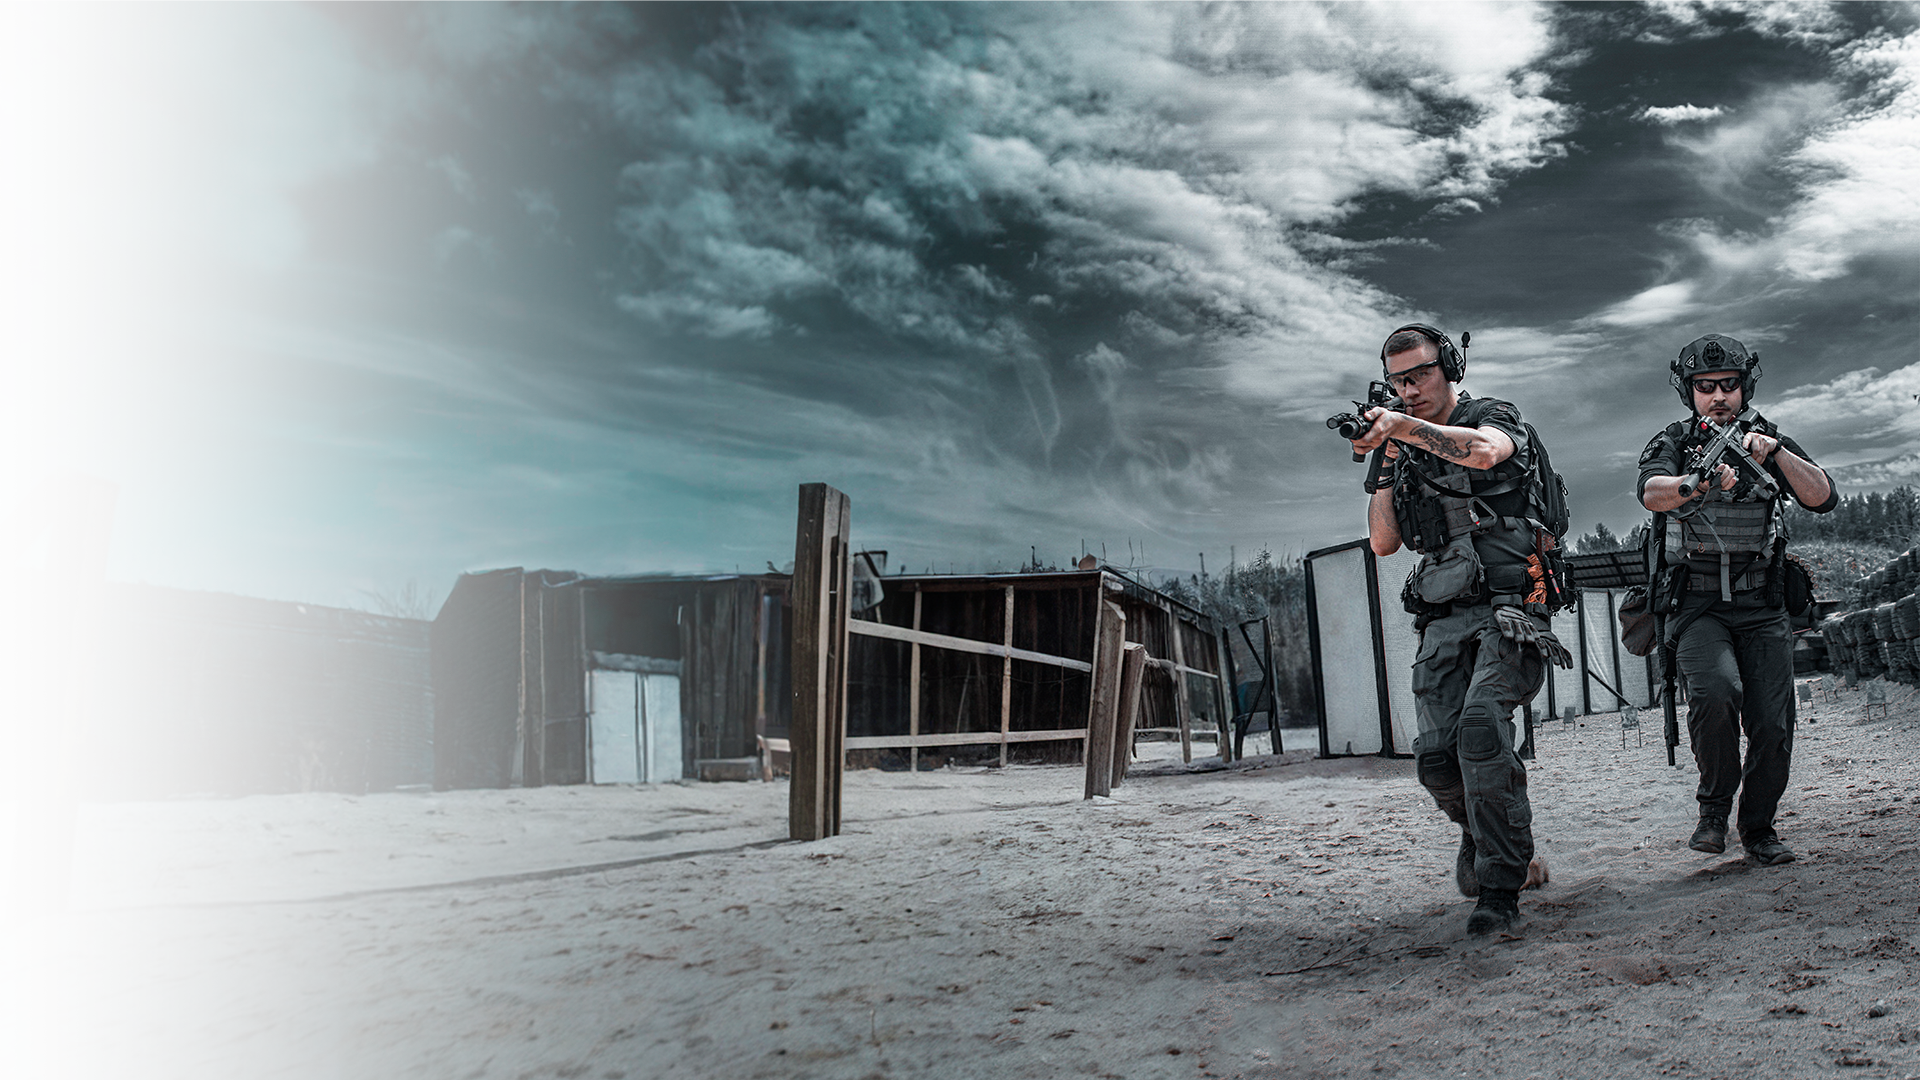
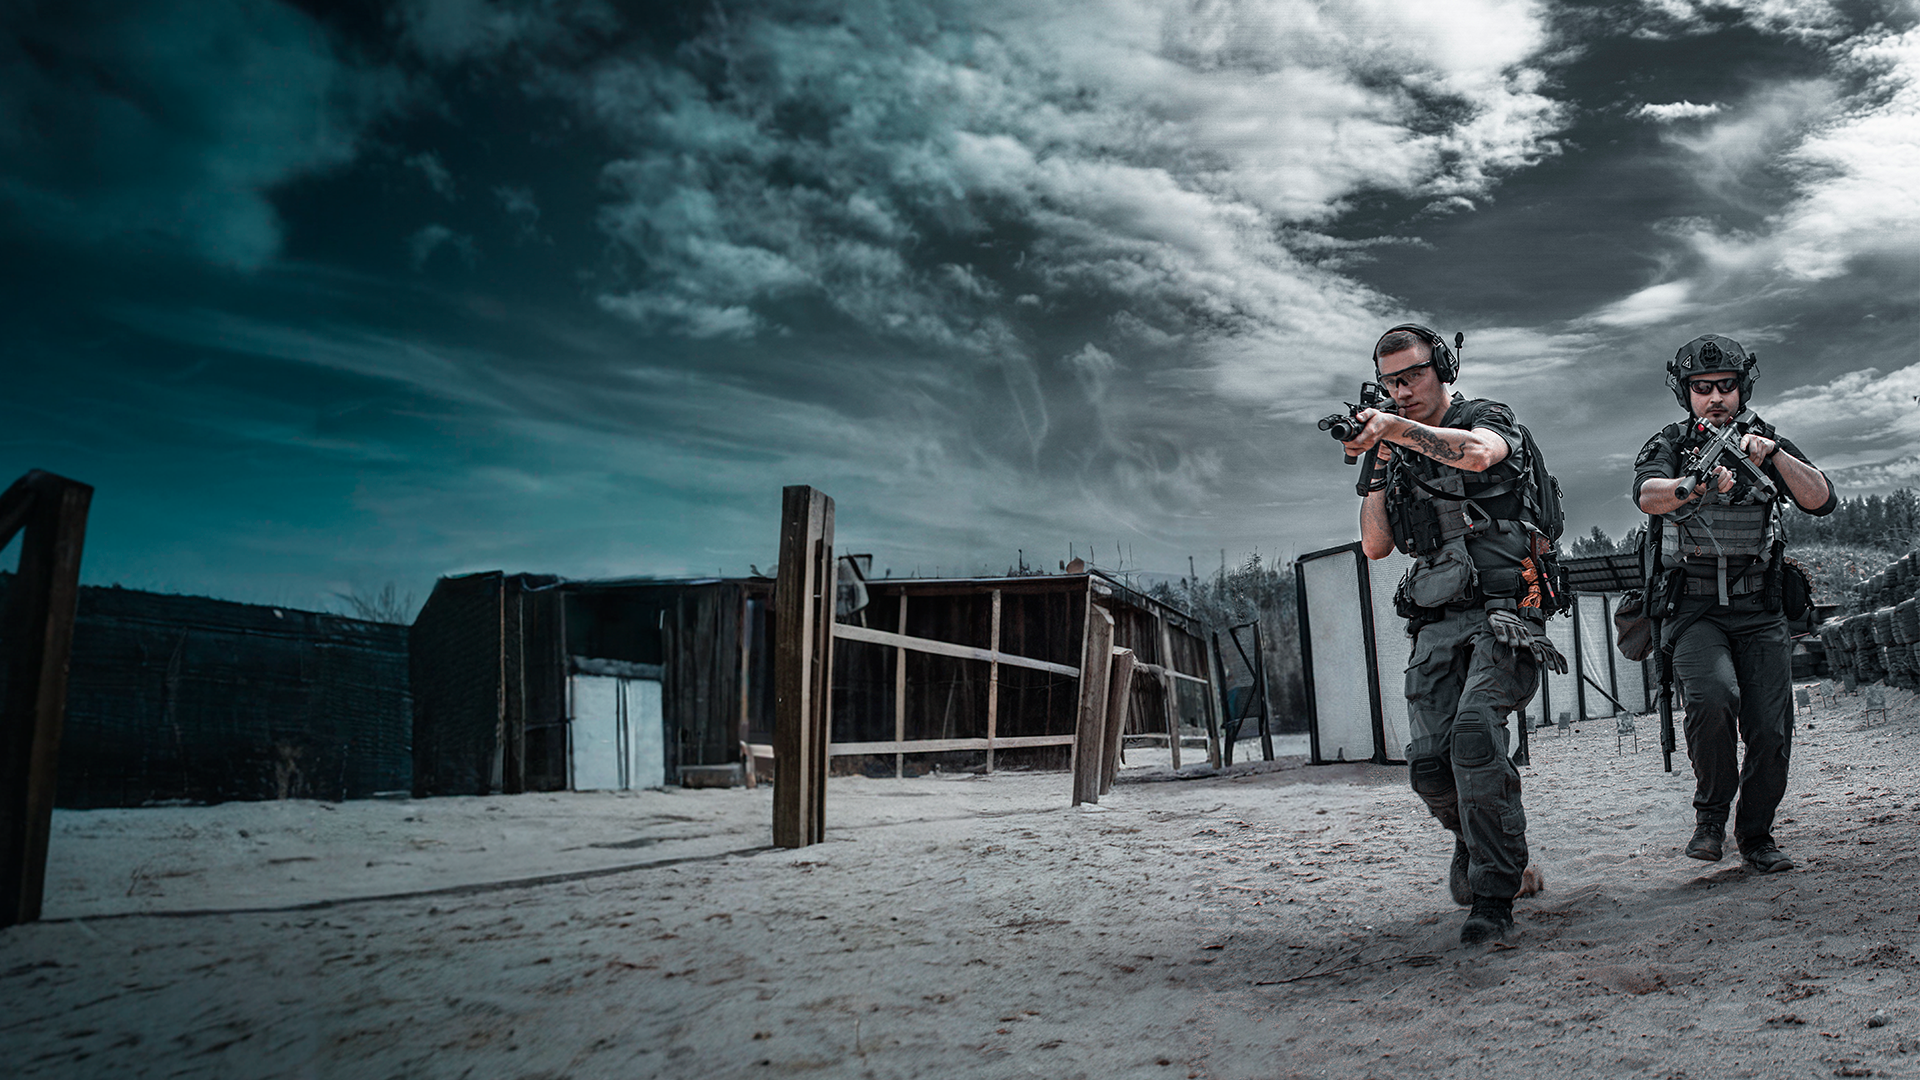
fix(zh img): Исправлена картинка для ZH + снова отключено получение данных с сервера у HomePage

diff --git a/src/components/pages/home/HomePage.vue b/src/components/pages/home/HomePage.vue
@@ -76,13 +76,13 @@ const scrollToSection = (sectionId: string) => {
 };
 
 onBeforeMount(async () => {
-  homeApi.getContent()
-    .then((response) => {
-      data.value = new AllDataModel(response); 
-    })
-    .catch(() => {
-      data.value = AllDataModel.default();
-    });
+  // homeApi.getContent()
+  //   .then((response) => {
+  //     data.value = new AllDataModel(response); 
+  //   })
+  //   .catch(() => {
+  //     data.value = AllDataModel.default();
+  //   });
 });
 
 const contentWidth = computed<string>(() => {
